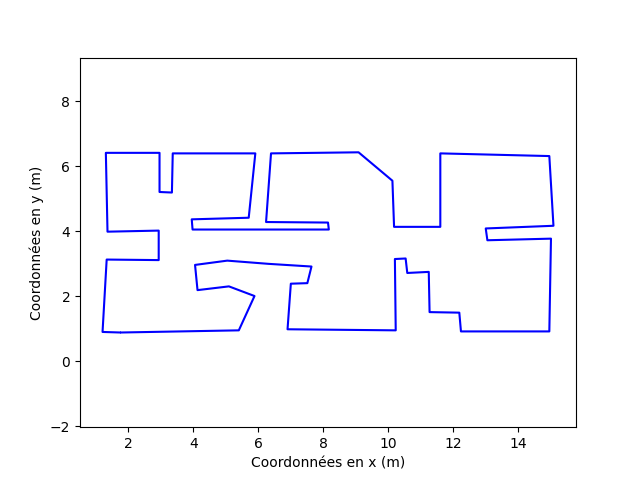
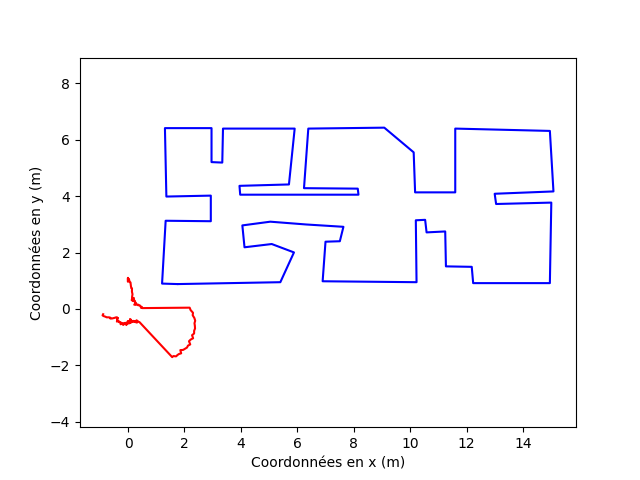
avancée sur l'exo 1

diff --git a/TP1/Q1/Q1.py b/TP1/Q1/Q1.py
@@ -28,13 +28,32 @@ for index, timing in enumerate(t[(t>t_lower_bound) & (t<t_upper_bound)]):
 # for index, timing in enumerate(t):
     # Faire un truc plus propre pour le delta_t que 0.05
     current_angle += (g[index]-K1)/K2 * 0.05
-    x = np.sin(current_angle)*z[index]
-    y = np.cos(current_angle)*z[index]
+    x = np.cos(current_angle)*z[index]
+    y = np.sin(current_angle)*z[index]
     point = np.array([[x, y]])
 
     points = np.append(points, point, axis=0)
 
-plt.scatter(points[:, 0], points[:, 1])
+# Question 1.3 : Localisation du robot dans la carte globale
+
+# Nettoyage de l'ensemble de points
+
+# Passage en coordonnées homogènes
+adjusted_points = np.hstack([points, np.ones((points.shape[0], 2))])
+
+# Application des matrices de transformation
+angle = 205
+radian_angle = np.radians(angle)
+translation_x = 11
+translation_y = 5.8
+
+adjusted_points = np.dot(adjusted_points,np.array([[np.cos(radian_angle),-np.sin(radian_angle),0,0],[np.sin(radian_angle),np.cos(radian_angle),0,0],[0,0,1,0],[0,0,0,1]]))
+adjusted_points = np.dot(adjusted_points,np.array([[1,0,0,0],[0,1,0,0],[0,0,1,0],[translation_x,translation_y,0,1]]))
+
+plt.plot(Carte[0,:],Carte[1,:],'b')
+plt.plot(points[:,0], points[:, 1],'r')
+plt.plot(adjusted_points[:,0], adjusted_points[:, 1],'r')
+plt.axis('equal')
 plt.show()
 
 
@@ -48,7 +67,8 @@ plt.xlabel('Temps (s)')
 plt.tight_layout()
 plt.show()
 
-plt.plot(Carte[0,:],Carte[1,:],'b');
+plt.plot(Carte[0,:],Carte[1,:],'b')
+plt.plot(points[:,0], points[:, 1],'r')
 plt.xlabel('Coordonnées en x (m)')
 plt.ylabel('Coordonnées en y (m)')
 plt.axis('equal')
